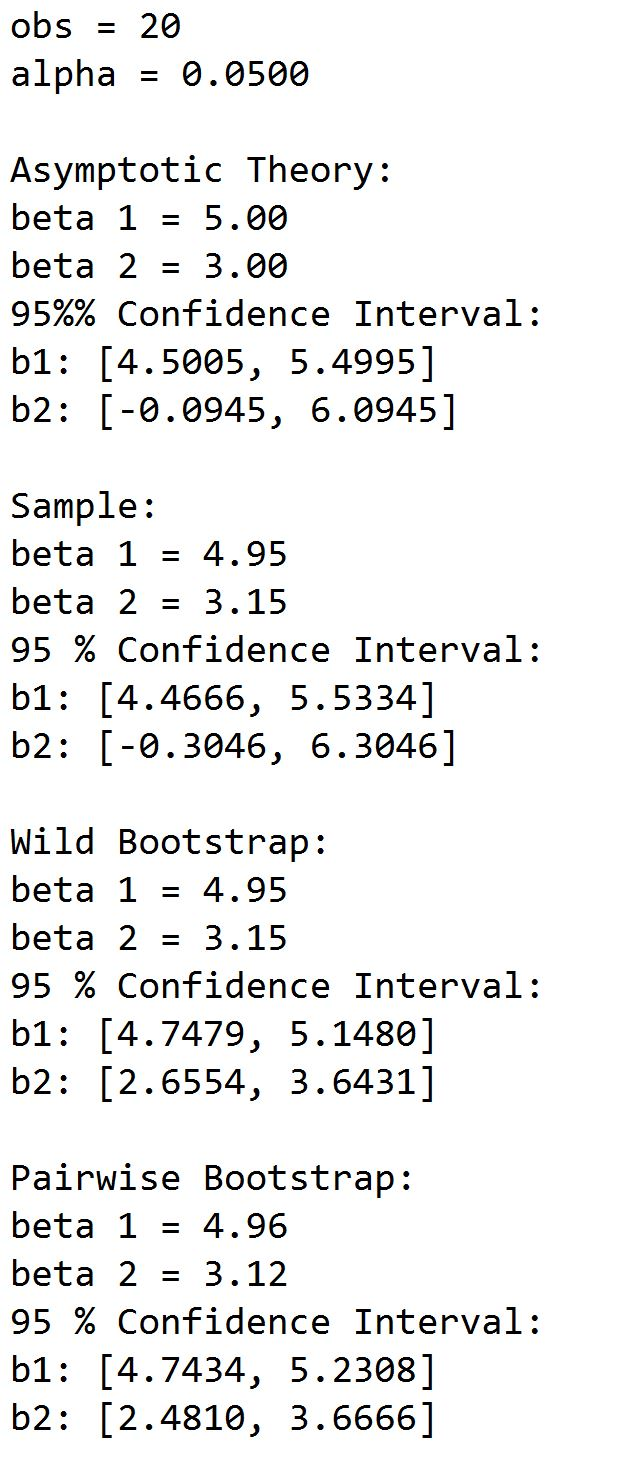
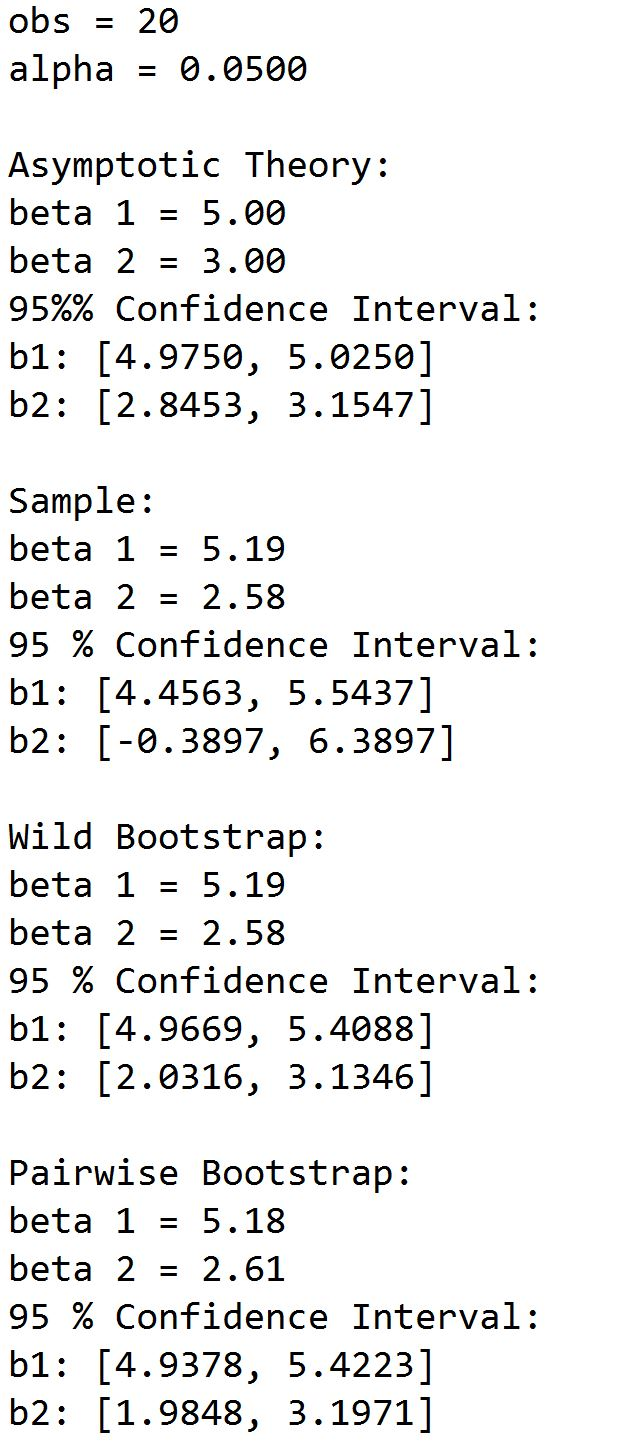
Add files via upload

diff --git a/Efron OLS.py b/Efron OLS.py
@@ -17,7 +17,7 @@ import time
 #Init: True Population Simulation 
 print("Initializing")
 
-n = 20
+n = 100
 #requires more than 8 observations 
 
 #Build Model 
@@ -72,7 +72,7 @@ def varb(X, Y):
     invX = np.linalg.inv(x.transpose()@x)
     return invX@XOX@invX
 
-var_beta_hat = n**2/(n-1)*varb(x, y) #for an unbiased estimate
+var_beta_hat = n*varb(x, y) 
 rese1 = y - x@beta_hat
 rese = rese1 - np.mean(rese1)
 
@@ -152,11 +152,11 @@ b_bp_s1 = np.sort(b_bp[:,1])
 
 
 
-b_true_l = beta - z_u*np.diag(var_beta)
-b_true_u = beta - z_l*np.diag(var_beta)
+b_true_l = beta - z_u*np.diag(var_beta/n)
+b_true_u = beta - z_l*np.diag(var_beta/n)
 
-b_hat_l = beta - t_u*np.diag(var_beta)
-b_hat_u = beta - t_l*np.diag(var_beta)
+b_hat_l = beta - t_u*np.diag(var_beta_hat)
+b_hat_u = beta - t_l*np.diag(var_beta_hat)
 
 ind_l = np.int(alpha/2*B)-1
 ind_u = np.int((1-alpha/2)*B)-1
@@ -199,7 +199,7 @@ def Summarize(displayvar=False):
     print("%.0f %% Confidence Interval:"%(100*(1-alpha)))
     print("b1: [%.4f, %.4f]"%(b_hat_l[0],b_hat_u[0]))
     print("b2: [%.4f, %.4f]"%(b_hat_l[1],b_hat_u[1]))
-    """
+    
     print("\nResidual Bootstrap:")
     for i in range(beta.shape[0]):
         print("beta %d = %.2f"%(i+1, b_br_mean[i]))
@@ -209,7 +209,7 @@ def Summarize(displayvar=False):
     print("%.0f %% Confidence Interval:"%(100*(1-alpha)))
     print("b1: [%.4f, %.4f]"%(b_br_l0,b_br_u0))
     print("b2: [%.4f, %.4f]"%(b_br_l1,b_br_u1))
-    """
+    
     print("\nWild Bootstrap:")
     for i in range(beta.shape[0]):
         print("beta %d = %.2f"%(i+1, b_bw_mean[i]))
